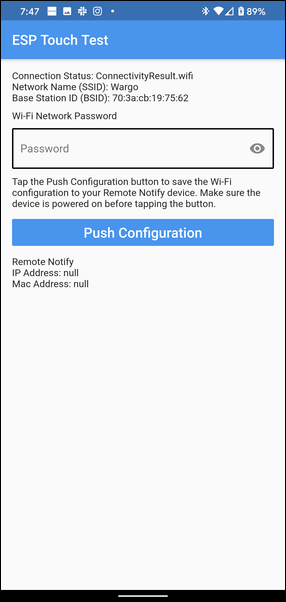
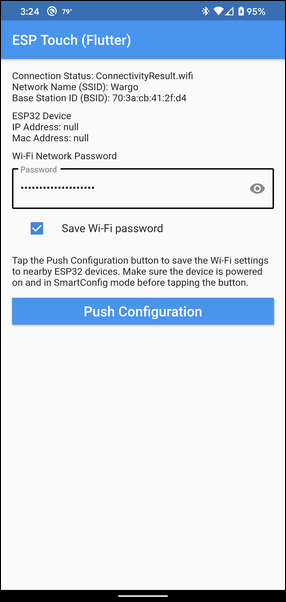
finalized the code

diff --git a/lib/pages/home.dart b/lib/pages/home.dart
@@ -7,6 +7,7 @@ import 'package:esptouch_flutter/esptouch_flutter.dart';
 import 'package:flutter/foundation.dart';
 import 'package:flutter/material.dart';
 import 'package:flutter/services.dart';
+import 'package:fluttertoast/fluttertoast.dart';
 import 'package:passwordfield/passwordfield.dart';
 import 'package:permission_handler/permission_handler.dart';
 
@@ -67,8 +68,7 @@ class _EspTouchHomeState extends State<EspTouchHome> {
         : _wifiPassword = '';
     wifiPasswordController = TextEditingController(text: _wifiPassword);
     wifiPasswordController.addListener(() {
-      setState(() => _wifiPassword = wifiPasswordController.text);
-      savePassword();
+      _wifiPassword = wifiPasswordController.text;
     });
     // Tell FutureBuilder we're ready to go...
     return true;
@@ -83,17 +83,10 @@ class _EspTouchHomeState extends State<EspTouchHome> {
 
   void updateCheckValue(bool value) {
     print('Home: updateCheckValue($value)');
+    // Write the setting to the config
     config.saveWiFiPassword = value;
+    // Then update the internal value
     setState(() => _saveWifiPassword = value);
-    savePassword();
-  }
-
-  void savePassword() {
-    print('Home: savePassword()');
-    // Are we saving the password?
-    _saveWifiPassword
-        ? config.wifiPassword = _wifiPassword
-        : config.wifiPassword = '';
   }
 
   void setWifiConfig() {
@@ -102,7 +95,11 @@ class _EspTouchHomeState extends State<EspTouchHome> {
       print('Setting Wi-Fi config');
       setState(() {
         buttonStatus = !buttonStatus;
+        _wifiPassword = wifiPasswordController.text;
       });
+      _saveWifiPassword
+          ? config.wifiPassword = _wifiPassword
+          : config.wifiPassword = '';
       final ESPTouchTask task = ESPTouchTask(
         ssid: _wifiName,
         bssid: _wifiBSSID,
@@ -182,7 +179,6 @@ class _EspTouchHomeState extends State<EspTouchHome> {
         print('Permission already granted (previous execution?)');
       }
     }
-
     return _updateConnectionStatus(result);
   }
 
@@ -274,9 +270,27 @@ class _EspTouchHomeState extends State<EspTouchHome> {
                         child: Container(child: Text('Loading preferences')))));
           } else {
             return Scaffold(
-              appBar: AppBar(
-                title: Text(widget.title),
-              ),
+              appBar: AppBar(title: Text(widget.title), actions: <Widget>[
+                IconButton(
+                  icon: Icon(Icons.refresh),
+                  onPressed: () {
+                    print('Refresh tapped');
+                    // Are we doing our thing?
+                    if (!buttonStatus) cancelWifiConfig();
+                    // Let the user know we're refreshing settings
+                    Fluttertoast.showToast(
+                        msg: "Refreshing network settings...",
+                        toastLength: Toast.LENGTH_SHORT,
+                        gravity: ToastGravity.TOP,
+                        timeInSecForIosWeb: 1,
+                        backgroundColor: Colors.black,
+                        textColor: Colors.white,
+                        fontSize: 16.0);
+                    initConnectivity();
+                    Fluttertoast.cancel();
+                  },
+                ),
+              ]),
               body: SafeArea(
                 child: ListView(
                     padding: const EdgeInsets.all(16.0),
@@ -284,6 +298,10 @@ class _EspTouchHomeState extends State<EspTouchHome> {
                       Text("Connection Status: $_connectionStatus"),
                       Text("Network Name (SSID): $_wifiName"),
                       Text("Base Station ID (BSID): $_wifiBSSID"),
+                      SizedBox(height: 10),
+                      Text("ESP32 Device"),
+                      Text("IP Address: $_remoteNotifyIPAddress"),
+                      Text("MAC Address: $_remoteNotifyMacAddress"),
                       SizedBox(height: 10),
                       Text("Wi-Fi Network Password"),
                       SizedBox(height: 10),
@@ -307,8 +325,11 @@ class _EspTouchHomeState extends State<EspTouchHome> {
                         controlAffinity: ListTileControlAffinity.leading,
                       ),
                       SizedBox(height: 10),
-                      Text(
-                          "Tap the Push Configuration button to save the Wi-Fi configuration to your Remote Notify device. Make sure the device is powered on before tapping the button."),
+                      Text("Tap the Push Configuration button to save the " +
+                          "Wi-Fi settings to nearby ESP32 devices. " +
+                          "Make sure the device is powered on " +
+                          "and in SmartConfig mode before tapping " +
+                          "the button."),
                       SizedBox(height: 10),
                       Visibility(
                         visible: buttonStatus,
@@ -342,10 +363,6 @@ class _EspTouchHomeState extends State<EspTouchHome> {
                           ),
                         ),
                       ),
-                      SizedBox(height: 10),
-                      Text("Remote Notify"),
-                      Text("IP Address: $_remoteNotifyIPAddress"),
-                      Text("Mac Address: $_remoteNotifyMacAddress"),
                     ]),
               ),
             );

diff --git a/readme.md b/readme.md
@@ -1,5 +1,30 @@
-# ESP Touch Testing app (Flutter)
+# ESP Touch (Flutter)
 
-This is a sample app I built do enable me to validate my ability to get Wi-Fi settings in a Flutter app and use the flutter package to configure an ESP32 device.
+While working on a hardware project, I decided to try out the ESP32 platform for my product. I prototyped with the [Particle Photon](https://www.particle.io/), but the platform's monthly charge (for the Particle Cloud) and the fact that they seemed to be abandoning the Photon for the more expensive Argon platform, drove me away. I always wanted to play around with the ESP8266 and even have a few devices laying around, but I never got around to it. The ESP32 looked more capable and were newer, so I decided to give them a try. 
+
+One of the things I quickly learned when I started working with the platform was that it offered an easy way to configure a device's Wi-Fi settings from a mobile app - that seemed cool. The Espressif team (the makers of the ESP32) publish a native sample app for Android and iOS that demonstrates how to use [SmartConfig](https://docs.espressif.com/projects/esp-idf/en/latest/esp32/api-reference/network/esp_smartconfig.html) and [ESP-Touch](https://www.espressif.com/en/products/software/esp-touch/overview) to get an ESP32 device on a Wi-Fi network. Unfortunately, I planned to use Google's [Flutter](https://flutter.dev/) UI Toolkit for my app and there weren't any full examples for Flutter available online.  
+
+I found the [`esptouch_flutter`](https://pub.dev/packages/esptouch_flutter) plugin which looked helpful but the sample app provided with the plugin was overcomplicated for what I wanted for my app. Buried away in the plugin's source was a simple example that I pulled into a sample app and got working with the complete UI I wanted for my app.  The result is the sample app in this repository (screen shot of the app below).
 
 ![Home Page](images/home-page.png)
+
+Let me tell you a bit about the app:
+
+* The app works on Android devices only, I'll explain why in the next bullet.
+* The app retrieves the smartphone's Wi-Fi settings using the [Flutter Connectivity](https://pub.dev/packages/connectivity) plugin. Unfortunately, due to some recent security changes Apple made in iOS 13, the Connectivity plugin doesn't work on iOS right now (see this [issue](https://github.com/flutter/flutter/issues/65093) for details). 
+* The app uses the Flutter [Permission Handler](https://pub.dev/packages/permission_handler) plugin to prompt Android for permission to access Location information in order for the Flutter Connectivity plugin to obtain Wi-Fi settings for the device running the app. The is required due to some recent security changes in Android, the Flutter Connectivity plugin can't read the device's Wi-Fi settings until the user grants permission and the Connectivity plugin doesn't request the permission (today). 
+* The app uses the [ESP Touch Flutter](https://pub.dev/packages/esptouch_flutter) plugin to configure Wi-Fi network settings on a nearby ESP8266 and ESP32 devices.
+
+**Note**: When you look at the app, you'll see that there is some iOS-specific code in there, just ignore it as it just doesn't work right now - I'll update this app when it does.
+
+So, how does this work? 
+
+1. Open the app and make sure the Wi-Fi Network Name (SSID) settings shown at the top of the page is the one you want to configure on Espressif devices. If not, change your device's Wi-Fi settings (connect to the network you want to use) then tap the refresh icon on the toolbar to update the app.
+2. Put a nearby Espressif ESP8266 or ESP32 in SmartConfig mode (how you do that it up to you - in my project, I have a button on the board that does that for me). 
+3. In the app, tap the **Push Configuration** button to start the configuration process. After anywhere from 10 to 30 seconds, the app should return a success message and update the **IP Address** and **MAC Address** fields with the IP and hardware addresses for the device. 
+
+If you have any questions about this app, create an [issue](https://github.com/johnwargo/esp_touch_flutter/issues) and I'll get back to you as soon as I can.
+
+***
+
+If you find this code useful, and feel like thanking me for providing it, please consider making a purchase from [my Amazon Wish List](https://amzn.com/w/1WI6AAUKPT5P9). You can find information on many different topics on my [personal blog](http://www.johnwargo.com). 
